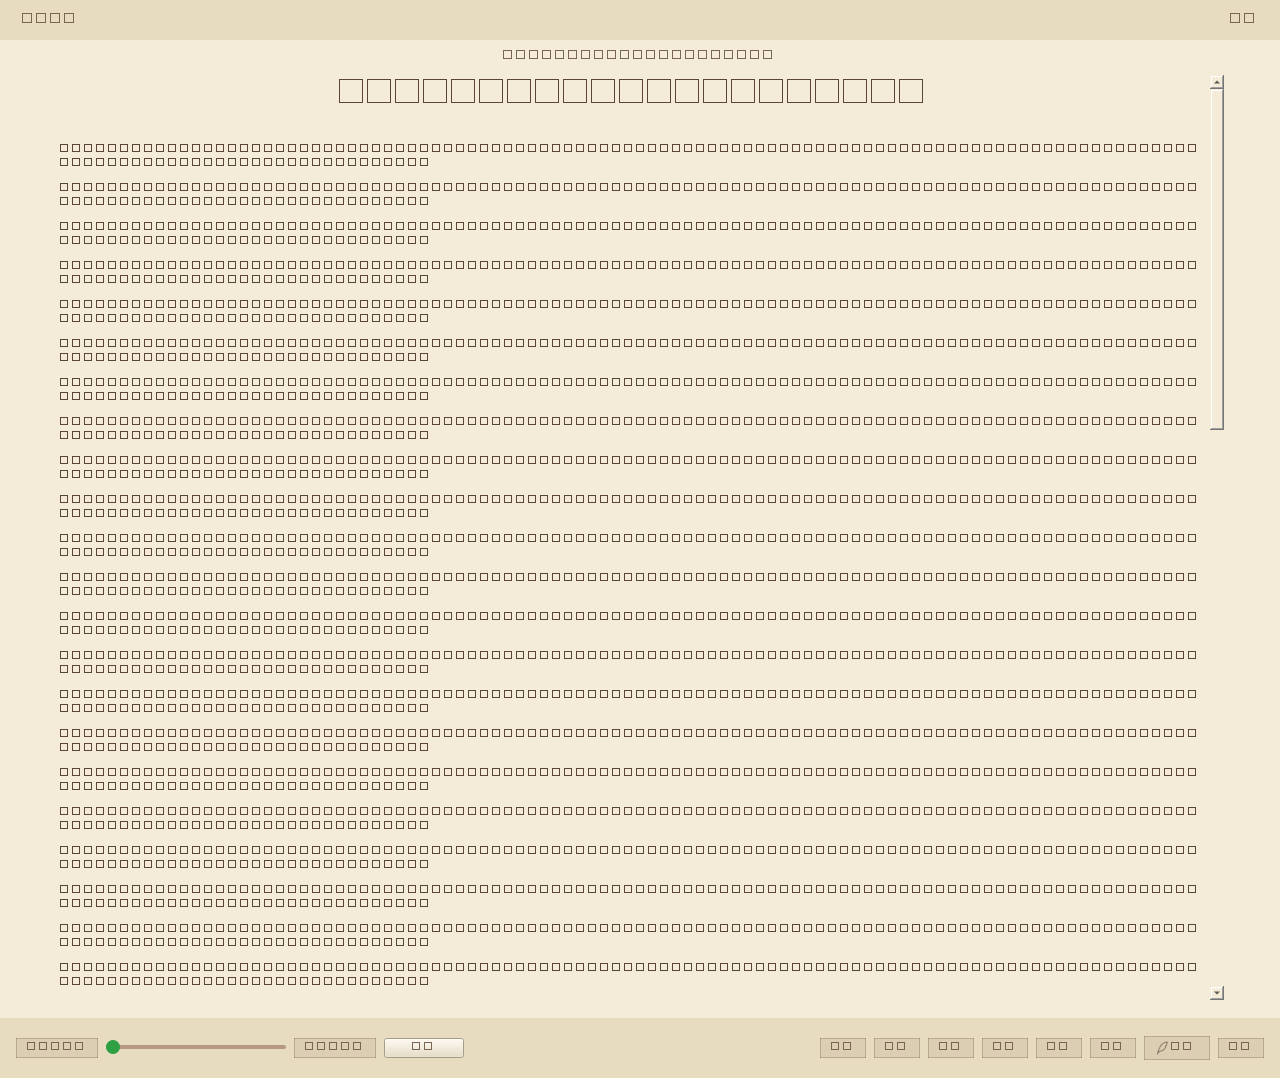
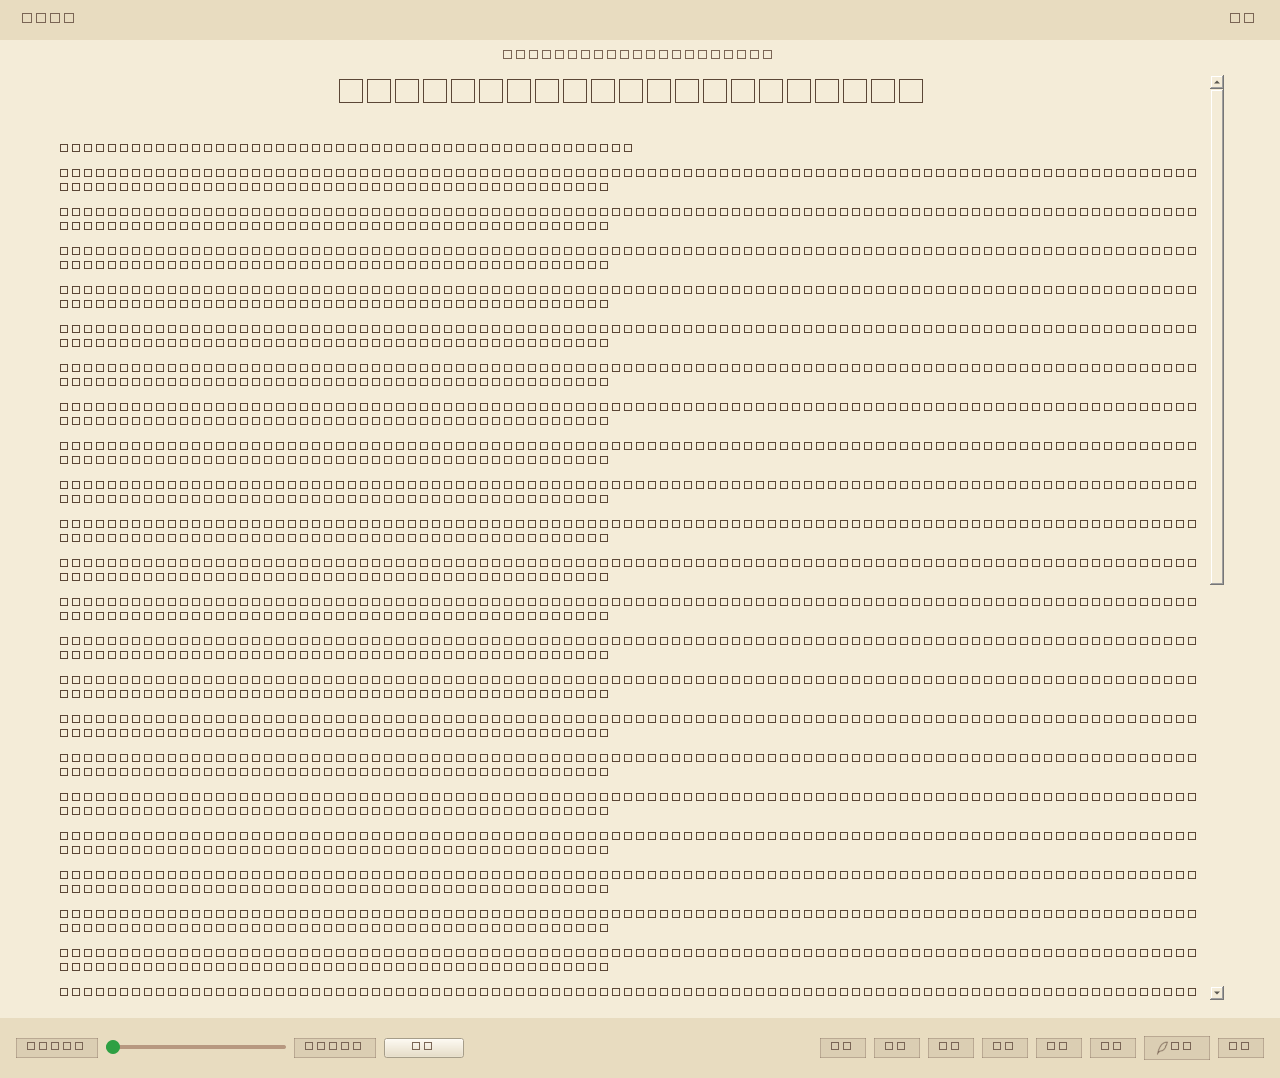
fix(reader): 硬换行书源加载时重排为段落，正文铺满视口宽度

Changed region(s): [[0.4688, 0.1531, 0.9375, 0.9184], [0.0625, 0.1531, 0.3438, 0.9184]]

diff --git a/PureRefCanvas/readerwidget.cpp b/PureRefCanvas/readerwidget.cpp
@@ -913,11 +913,35 @@ void ReaderWidget::loadBook(const QString &id)
     m_chapters = m_library->extractChapters(m_bookText);
     m_bookTitleLabel->setText(book.title);
 
-    // Build the paragraph index: trim each line, remember its source position.
+    // Build the paragraph index with hard-wrap reflow: web txt books break
+    // every ~25-40 chars, so consecutive non-blank lines are joined into one
+    // paragraph until a heading, a blank line, a full-width indent, or a
+    // decorative separator starts a new one. Per-line tables keep the
+    // source<->doc position mapping exact for annotations/bookmarks/progress.
     m_paras.clear();
     QSet<int> headingStarts;
     for (const ChapterInfo &ch : m_chapters)
         headingStarts.insert(ch.startPos);
+
+    QVector<int> curSrc, curLen;
+    int curBegin = -1;
+    bool curHeading = false;
+    auto flushPara = [&]() {
+        if (curBegin < 0) return;
+        Para p;
+        p.src = curBegin;
+        p.len = curSrc.last() + curLen.last() - curBegin;
+        p.heading = curHeading;
+        if (curSrc.size() > 1) {
+            p.lineSrc = curSrc;
+            p.lineLen = curLen;
+        }
+        m_paras << p;
+        curSrc.clear();
+        curLen.clear();
+        curBegin = -1;
+        curHeading = false;
+    };
 
     int ls = 0;
     const int len = m_bookText.length();
@@ -928,14 +952,27 @@ void ReaderWidget::loadBook(const QString &id)
         while (a < le && m_bookText[a].isSpace()) a++;
         while (bnd >= a && m_bookText[bnd].isSpace()) bnd--;
         if (bnd >= a) {
-            Para p;
-            p.src = a;
-            p.len = bnd - a + 1;
-            p.heading = headingStarts.contains(ls);
-            m_paras << p;
+            const QStringView line(m_bookText.mid(a, bnd - a + 1));
+            static const QRegularExpression separatorRe(
+                QStringLiteral("^[\\-—_=·*\\s]+$"));
+            const bool heading = headingStarts.contains(ls);
+            const bool separator = separatorRe.match(line).hasMatch();
+            const bool indented = line.startsWith(QChar(0x3000));
+            if (heading || separator || indented || curBegin < 0) {
+                flushPara();
+                curBegin = a;
+                curHeading = heading;
+            }
+            curSrc << a;
+            curLen << bnd - a + 1;
+            if (heading || separator)
+                flushPara();
+        } else {
+            flushPara(); // blank line ends the paragraph
         }
         ls = le + 1;
     }
+    flushPara();
 
     buildWholeDocument();
     // Position is restored once the reader page is actually shown (viewport
@@ -1032,7 +1069,14 @@ void ReaderWidget::buildDocument(QTextDocument *doc, int begin, int end) const
             all.append(QChar(0x3000)); // 首行缩进两个全角空格
             all.append(QChar(0x3000));
         }
-        all.append(bookView.mid(p.src, p.len));
+        if (p.lineSrc.isEmpty()) {
+            all.append(bookView.mid(p.src, p.len));
+        } else {
+            // Reflowed paragraph: join the hard-wrapped lines (no separator —
+            // CJK text flows across the original line breaks).
+            for (int k = 0; k < p.lineSrc.size(); ++k)
+                all.append(bookView.mid(p.lineSrc[k], p.lineLen[k]));
+        }
         all.append(QLatin1Char('\n'));
     }
     doc->setPlainText(all);
@@ -1213,8 +1257,25 @@ int ReaderWidget::docFromSource(int srcPos) const
     }
     int blockEnd = m_paraSrcStart[idx] + m_blockSrcLen[idx];
     srcPos = qBound(m_paraSrcStart[idx], srcPos, blockEnd);
-    return m_docBlockStart.value(idx, 0) + m_blockPrefix.value(idx, 0)
-           + (srcPos - m_paraSrcStart[idx]);
+    const int base = m_docBlockStart.value(idx, 0) + m_blockPrefix.value(idx, 0);
+    const Para &p = m_paras[idx];
+    if (p.lineSrc.isEmpty())
+        return base + (srcPos - m_paraSrcStart[idx]);
+
+    // Reflowed paragraph: walk the joined lines; a source position falling in
+    // a removed line-break gap clamps to the end of the preceding line.
+    const int rel = srcPos - p.src;
+    int docOff = 0;
+    for (int k = 0; k < p.lineSrc.size(); ++k) {
+        const int sOff = p.lineSrc[k] - p.src;
+        const int lLen = p.lineLen[k];
+        if (rel < sOff)
+            return base + docOff;
+        if (srcPos < p.lineSrc[k] + lLen)
+            return base + docOff + (srcPos - p.lineSrc[k]);
+        docOff += lLen;
+    }
+    return base + docOff;
 }
 
 int ReaderWidget::sourceFromDoc(int docPos) const
@@ -1222,11 +1283,28 @@ int ReaderWidget::sourceFromDoc(int docPos) const
     if (m_docBlockStart.isEmpty()) return 0;
     for (int i = 0; i < m_docBlockStart.size(); ++i) {
         const int start = m_docBlockStart[i];
-        const int shownLen = m_blockPrefix[i] + m_blockSrcLen[i];
+        const Para &p = m_paras.value(i);
+        // Actual rendered content length: joined lines (no gaps) for
+        // reflowed paragraphs, the source span otherwise.
+        int contentLen = p.len;
+        if (!p.lineSrc.isEmpty()) {
+            contentLen = 0;
+            for (int l : p.lineLen) contentLen += l;
+        }
+        const int shownLen = m_blockPrefix.value(i, 0) + contentLen;
         if (docPos < start + shownLen) {
-            int rel = docPos - start - m_blockPrefix[i];
-            rel = qBound(0, rel, m_blockSrcLen[i]);
-            return m_paraSrcStart[i] + rel;
+            int rel = docPos - start - m_blockPrefix.value(i, 0);
+            rel = qBound(0, rel, contentLen);
+            if (p.lineSrc.isEmpty())
+                return m_paraSrcStart[i] + rel;
+            int docOff = 0;
+            for (int k = 0; k < p.lineSrc.size(); ++k) {
+                const int lLen = p.lineLen[k];
+                if (rel < docOff + lLen)
+                    return p.lineSrc[k] + (rel - docOff);
+                docOff += lLen;
+            }
+            return p.lineSrc.last() + p.lineLen.last();
         }
     }
     const int last = m_docBlockStart.size() - 1;

diff --git a/_reader_test/wrapprobe.cpp b/_reader_test/wrapprobe.cpp
@@ -43,11 +43,18 @@ int main(int argc, char **argv)
     QDir(root).removeRecursively();
     QDir().mkpath(root);
 
-    // A long enough book to be realistic.
-    QString text;
-    const QString para = QStringLiteral("甄士隱夢幻識通靈賈雨村風塵懷閨秀，此開卷第一回也。作者自云曾歷過一番夢幻之後，故將真事隱去，而借通靈之說撰此石頭記一書也。故曰甄士隱云云。但書中所記何事何人，自又云而今風塵碌碌一事無成，忽念及當日所有之女子，一一細考較去，覺其行止見識皆出於我之上。");
-    for (int i = 0; i < 60; ++i) text += para + "\n";
-    text = QStringLiteral("第一回　甄士隱夢幻識通靈　賈雨村風塵懷閨秀\n") + text;
+    // A realistic web-txt book: hard-wrapped ~28-char lines, paragraphs start
+    // with two full-width spaces, blank line between paragraphs (the layout
+    // that produced the "text only fills 40% of the width" report).
+    QString text = QStringLiteral("第一回　甄士隱夢幻識通靈　賈雨村風塵懷閨秀\n");
+    text += QStringLiteral("----------------------------------------------\n");
+    const QString paraText = QStringLiteral("甄士隱夢幻識通靈賈雨村風塵懷閨秀，此開卷第一回也。作者自云曾歷過一番夢幻之後，故將真事隱去，而借通靈之說撰此石頭記一書也。故曰甄士隱云云。但書中所記何事何人，自又云而今風塵碌碌一事無成，忽念及當日所有之女子，一一細考較去，覺其行止見識皆出於我之上。何我堂堂鬚眉，誠不若彼裙釵哉？");
+    for (int i = 0; i < 40; ++i) {
+        text += QStringLiteral("\u3000\u3000");
+        for (int k = 0; k < paraText.length(); k += 28)
+            text += paraText.mid(k, 28) + QLatin1Char('\n');
+        text += QLatin1Char('\n');
+    }
     const QString bookPath = root + "/_wrap_book.txt";
     QFile f(bookPath);
     f.open(QIODevice::WriteOnly);

diff --git a/_reader_test/runwrapprobe.py b/_reader_test/runwrapprobe.py
@@ -1,0 +1,32 @@
+# Build and run wrapprobe (narrow-window open -> widen -> compare wrap widths).
+# Modeled on runprobe.py (ninja in the configured _reader_test dir + plugin path).
+import os, subprocess, sys
+sys.stdout.reconfigure(encoding="utf-8", errors="replace")
+
+d = r"C:\Users\LiyuYou\Desktop\Q\_reader_test"
+env = os.environ.copy()
+env["PATH"] = (r"D:\software\QT\Tools\CMake_64\bin;D:\software\QT\Tools\Ninja;"
+               r"D:\software\QT\Tools\mingw1310_64\bin;D:\software\QT\6.11.2\mingw_64\bin;"
+               + env["PATH"])
+env["QT_QPA_PLATFORM"] = "offscreen"
+env["QT_QPA_PLATFORM_PLUGIN_PATH"] = r"D:\software\QT\6.11.2\mingw_64\plugins\platforms"
+env["LIYIYOU_TEST_DIR"] = os.path.join(d, "build", "scratch")
+
+r = subprocess.run(["ninja", "wrapprobe"], cwd=d, env=env, capture_output=True)
+print("build rc:", r.returncode)
+if r.returncode != 0:
+    print((r.stdout or b"").decode("utf-8", "replace")[-2000:])
+    print((r.stderr or b"").decode("utf-8", "replace")[-2000:])
+    sys.exit(1)
+
+try:
+    rr = subprocess.run([os.path.join(d, "wrapprobe.exe")], cwd=d, env=env,
+                        capture_output=True, timeout=120)
+    print("run rc:", rr.returncode)
+    print((rr.stdout or b"").decode("utf-8", "replace"))
+    err = (rr.stderr or b"").decode("utf-8", "replace")
+    if err.strip():
+        print("STDERR:", err[:400])
+except subprocess.TimeoutExpired as e:
+    print("TIMEOUT")
+    print((e.stdout or b"").decode("utf-8", "replace")[-1000:])

diff --git a/PureRefCanvas/readerwidget.h b/PureRefCanvas/readerwidget.h
@@ -90,7 +90,15 @@ protected:
     bool eventFilter(QObject *obj, QEvent *event) override;
 
 private:
-    struct Para { int src = 0; int len = 0; bool heading = false; };
+    struct Para {
+        int src = 0;    // first line's source start
+        int len = 0;    // source span (first line start .. last line end, gaps included)
+        bool heading = false;
+        // Reflow of hard-wrapped txt: per-line tables for merged paragraphs
+        // (empty for single-line paragraphs, where doc content == source 1:1).
+        QVector<int> lineSrc;   // absolute source start of each joined line
+        QVector<int> lineLen;   // stripped length of each joined line
+    };
 
     void setupUI();
     void setupShelfPage();
